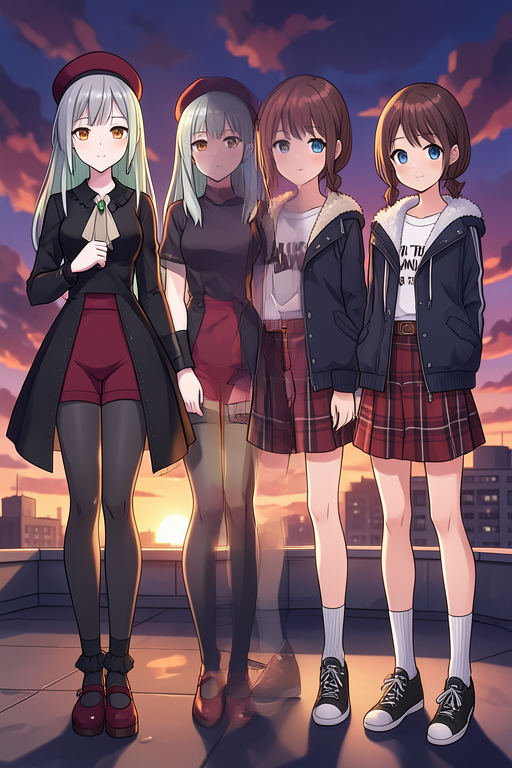
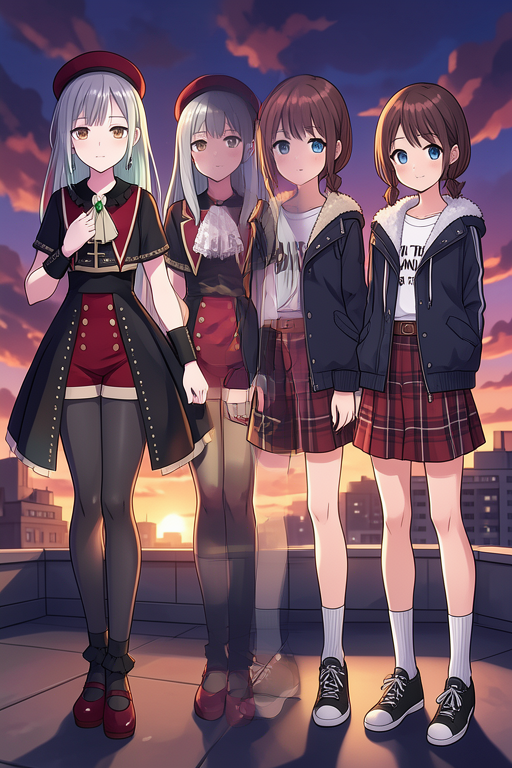
Update character appearance details for accuracy and fix description errors
Refine Mortis appearance description from "military coat" to "open-front tailcoat" and correct other clothing details across multiple test files and metadata.

Replit-Commit-Author: Agent
Replit-Commit-Session-Id: 93f1d019-95a0-4049-84e3-6b3b1efc4c86
Replit-Commit-Checkpoint-Type: full_checkpoint
Replit-Commit-Event-Id: 35dba08d-d468-4f64-a12c-77bdae1c8e82
Replit-Helium-Checkpoint-Created: true

diff --git a/test_2pass_hug.py b/test_2pass_hug.py
@@ -28,12 +28,13 @@ MORTIS_PATH = "attached_assets/Mortis_Anime_unmasked_1774831761833.webp"
 NINA_PATH   = "attached_assets/圖片_1774831943302.png"
 
 MORTIS_APPEARANCE = (
-    "1girl, Mortis, long pale mint-grey hair, light silver with subtle green tint, "
-    "deep burgundy red beret hat, warm amber eyes, pale skin, "
-    "fitted black gothic military long coat (no hoodie, no cape), "
-    "solid plain crimson red shorts (no plaid, no pattern, no skirt), "
-    "dark gray opaque tights, black stockings (no bare legs), "
-    "dark red platform mary jane shoes, cross brooch with green gem, elegant gothic lolita aesthetic"
+    "1girl, Mortis, long pale silver-grey hair with subtle mint-green tint, "
+    "deep burgundy red flat beret, warm amber-grey eyes, pale skin, "
+    "black open-front tailcoat with flared hi-lo skirt hem, gold-beige trim and stud details along edges, "
+    "crimson red high-waisted button-front shorts (solid plain, no plaid, no pattern), "
+    "white lace jabot at collar, green gem cross brooch, black wrist cuffs, "
+    "dark gray opaque tights covering legs fully (no bare legs), "
+    "dark red platform mary jane shoes, gothic lolita aristocrat aesthetic"
 )
 NINA_APPEARANCE = (
     "1girl, Tokazaki Nina (仁菜), short brown hair, small twin tails, blue eyes, "

diff --git a/test_mortis_nina.py b/test_mortis_nina.py
@@ -19,12 +19,13 @@ MORTIS_PATH = "attached_assets/Mortis_Anime_unmasked_1774831761833.webp"
 NINA_PATH   = "attached_assets/圖片_1774831943302.png"
 
 MORTIS_APPEARANCE = (
-    "1girl, Mortis, long pale mint-grey hair, light silver with subtle green tint, "
-    "deep burgundy red beret hat, warm amber eyes, pale skin, "
-    "fitted black gothic military long coat (no hoodie, no cape), "
-    "solid plain crimson red shorts (no plaid, no pattern, no skirt), "
-    "dark gray opaque tights, black stockings (no bare legs), "
-    "dark red platform mary jane shoes, cross brooch with green gem, elegant gothic lolita aesthetic"
+    "1girl, Mortis, long pale silver-grey hair with subtle mint-green tint, "
+    "deep burgundy red flat beret, warm amber-grey eyes, pale skin, "
+    "black open-front tailcoat with flared hi-lo skirt hem, gold-beige trim and stud details along edges, "
+    "crimson red high-waisted button-front shorts (solid plain, no plaid, no pattern), "
+    "white lace jabot at collar, green gem cross brooch, black wrist cuffs, "
+    "dark gray opaque tights covering legs fully (no bare legs), "
+    "dark red platform mary jane shoes, gothic lolita aristocrat aesthetic"
 )
 NINA_APPEARANCE = (
     "1girl, Tokazaki Nina (仁菜), short brown hair, small twin tails, blue eyes, "

diff --git a/test_inpaint_hugging.py b/test_inpaint_hugging.py
@@ -22,12 +22,13 @@ MORTIS_REF = "attached_assets/Mortis_Anime_unmasked_1774831761833.webp"
 NINA_REF   = "attached_assets/圖片_1774831943302.png"
 
 MORTIS_APPEARANCE = (
-    "1girl, Mortis, long pale mint-grey hair, light silver with subtle green tint, "
-    "deep burgundy red beret hat, warm amber eyes, pale skin, "
-    "fitted black gothic military long coat (no hoodie, no cape), "
-    "solid plain crimson red shorts (no plaid, no pattern, no skirt), "
-    "dark gray opaque tights, black stockings (no bare legs), "
-    "dark red platform mary jane shoes, cross brooch with green gem, elegant gothic lolita aesthetic"
+    "1girl, Mortis, long pale silver-grey hair with subtle mint-green tint, "
+    "deep burgundy red flat beret, warm amber-grey eyes, pale skin, "
+    "black open-front tailcoat with flared hi-lo skirt hem, gold-beige trim and stud details along edges, "
+    "crimson red high-waisted button-front shorts (solid plain, no plaid, no pattern), "
+    "white lace jabot at collar, green gem cross brooch, black wrist cuffs, "
+    "dark gray opaque tights covering legs fully (no bare legs), "
+    "dark red platform mary jane shoes, gothic lolita aristocrat aesthetic"
 )
 NINA_APPEARANCE = (
     "1girl, Tokazaki Nina (仁菜), short brown hair, small twin tails, blue eyes, "
